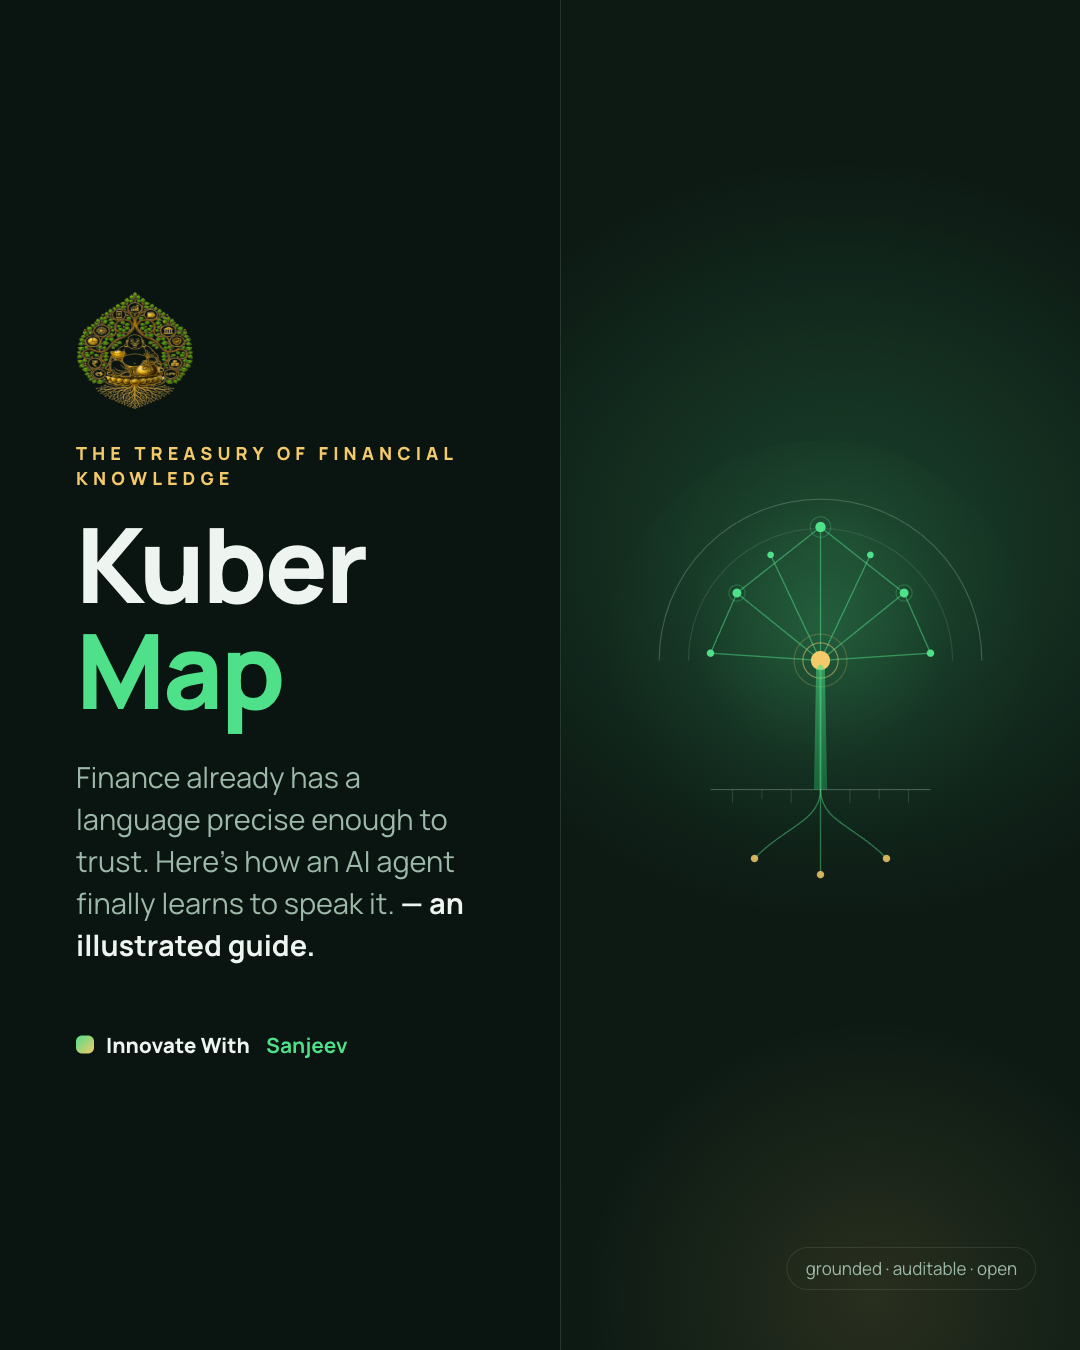
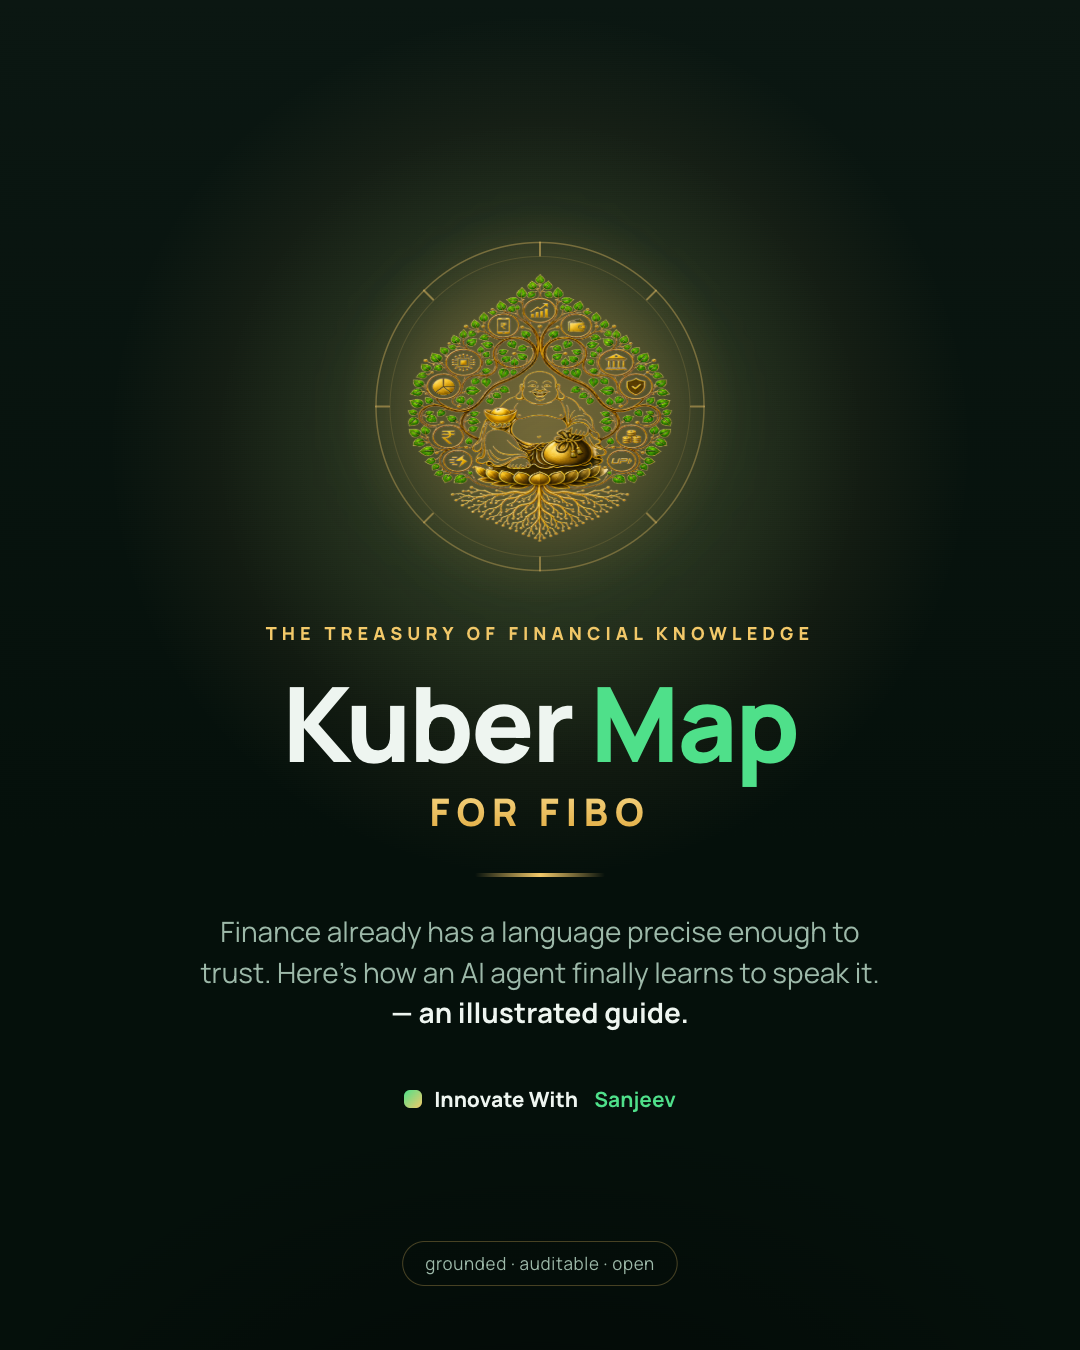
eBook cover: hero the Kuber emblem as a gold-lit medallion on dark (both variants)

diff --git a/marketing/ebook.html b/marketing/ebook.html
@@ -58,20 +58,29 @@
   .split .art svg{ width:340px; height:auto; display:block;}
   .split .art .cap{ position:absolute; left:44px; right:44px; bottom:70px; font-size:17px; color:var(--faint); line-height:1.45; text-align:center;}
 
-  /* ===== COVER ===== */
-  .cover .txt{ justify-content:center;}
-  .cover .emblem{ width:118px; height:118px; margin-bottom:32px;}
-  .cover h1{ font-size:104px; margin-top:20px;}
-  .cover .sub{ font-size:29px; color:var(--muted); margin-top:34px; line-height:1.45; max-width:560px;}
-  .cover .sub b{color:var(--ink);}
-  .cover .by{ margin-top:64px; display:flex; align-items:center; gap:12px; font-size:21px; font-weight:800;}
-  .cover .by .spark{ width:18px; height:18px; border-radius:6px; background:linear-gradient(135deg,var(--green),var(--gold));}
-  .cover .by b{color:var(--green);}
-  .cover .art{ flex-basis:520px; background:
-      radial-gradient(620px 560px at 54% 40%, color-mix(in srgb, var(--green) 20%, transparent), transparent 68%),
-      radial-gradient(480px 460px at 60% 96%, color-mix(in srgb, var(--gold) 12%, transparent), transparent 60%), var(--panel);}
-  .cover .art svg{ width:440px;}
-  .cover .art .tag{ position:absolute; right:44px; bottom:60px; font-size:17px; color:var(--muted); border:1px solid var(--line); border-radius:999px; padding:9px 18px;}
+  /* ===== COVER (always dark, gold-lit hero around the Kuber emblem) ===== */
+  .cover{ background:
+      radial-gradient(720px 720px at 50% 33%, rgba(243,201,105,.20), transparent 60%),
+      radial-gradient(560px 560px at 50% 33%, rgba(79,224,138,.14), transparent 58%),
+      radial-gradient(1100px 820px at 50% 116%, rgba(0,0,0,.55), transparent 56%),
+      linear-gradient(180deg, #0b1712, #05100b 62%);}
+  .cover .pad{ align-items:center; text-align:center; justify-content:center; padding:110px 96px;}
+  .cover .emblemwrap{ position:relative; width:340px; height:340px; margin-bottom:44px; display:flex; align-items:center; justify-content:center;}
+  .cover .halo{ position:absolute; inset:-30px; border-radius:50%; background:radial-gradient(circle, rgba(243,201,105,.30), rgba(243,201,105,.06) 52%, transparent 70%);}
+  .cover .rings{ position:absolute; inset:0; width:100%; height:100%;}
+  .cover .emblem{ position:relative; z-index:2; width:270px; height:270px; filter:drop-shadow(0 0 44px rgba(243,201,105,.5)) drop-shadow(0 16px 40px rgba(0,0,0,.6));}
+  .cover .kicker{ color:#f3c969;}
+  .cover h1{ font-size:104px; margin-top:24px; color:#eef5f0;}
+  .cover h1 .g{ color:#4fe08a;}
+  .cover .forfibo{ font-size:38px; font-weight:800; letter-spacing:.18em; text-transform:uppercase; margin-top:10px;
+    background:linear-gradient(180deg,#f7d98a,#e0a93c); -webkit-background-clip:text; background-clip:text; -webkit-text-fill-color:transparent;}
+  .cover .rule{ width:130px; height:4px; border-radius:3px; margin:36px 0 0; background:linear-gradient(90deg, transparent, #f3c969, transparent);}
+  .cover .sub{ font-size:28px; color:#9db9a9; margin-top:34px; line-height:1.45; max-width:680px;}
+  .cover .sub b{color:#eef5f0;}
+  .cover .by{ margin-top:52px; display:flex; align-items:center; gap:12px; font-size:21px; font-weight:800; color:#eef5f0;}
+  .cover .by .spark{ width:18px; height:18px; border-radius:6px; background:linear-gradient(135deg,#4fe08a,#f3c969);}
+  .cover .by b{color:#4fe08a;}
+  .cover .tag{ position:absolute; left:50%; transform:translateX(-50%); bottom:64px; font-size:17px; color:#9db9a9; border:1px solid rgba(243,201,105,.28); border-radius:999px; padding:10px 22px; letter-spacing:.04em;}
 
   /* ===== QUOTE ===== */
   .quote .pad{ justify-content:center; padding:120px 110px;}
@@ -209,32 +218,27 @@
 <div class="book">
 
   <!-- 1 · COVER -->
-  <section class="page split cover">
-    <div class="txt">
-      <img class="emblem" src="../images/kuber-map.png" alt="" />
-      <div class="kicker">The treasury of financial knowledge</div>
-      <h1>Kuber <span class="g">Map</span></h1>
-      <div class="sub">Finance already has a language precise enough to trust. Here's how an AI agent finally learns to speak it. <b>— an illustrated guide.</b></div>
-      <div class="by"><span class="spark"></span>Innovate With&nbsp;<b>Sanjeev</b></div>
-    </div>
-    <div class="art">
-      <svg viewBox="0 0 600 640" fill="none" aria-hidden="true">
-        <defs><radialGradient id="hg" cx="50%" cy="44%" r="52%"><stop offset="0%" stop-color="var(--green)" stop-opacity=".22"/><stop offset="60%" stop-color="var(--green)" stop-opacity=".04"/><stop offset="100%" stop-color="var(--green)" stop-opacity="0"/></radialGradient><linearGradient id="ht" x1="0" y1="0" x2="0" y2="1"><stop offset="0%" stop-color="var(--green)"/><stop offset="100%" stop-color="var(--green-deep)"/></linearGradient></defs>
-        <circle cx="300" cy="290" r="290" fill="url(#hg)"/>
-        <g stroke="var(--faint)" fill="none" stroke-opacity=".5"><path d="M80 300 A220 220 0 0 1 520 300" stroke-width="1.5"/><path d="M120 300 A180 180 0 0 1 480 300" stroke-width="1.5" stroke-opacity=".28"/></g>
-        <g stroke="var(--green)" stroke-opacity=".5" stroke-width="1.8" stroke-linecap="round"><path d="M300 300 L300 118"/><path d="M300 300 L186 208"/><path d="M300 300 L414 208"/><path d="M300 300 L150 290"/><path d="M300 300 L450 290"/><path d="M300 118 L186 208"/><path d="M300 118 L414 208"/><path d="M186 208 L150 290"/><path d="M414 208 L450 290"/><path d="M300 300 L232 156"/><path d="M300 300 L368 156"/></g>
-        <g fill="var(--green)"><circle cx="300" cy="118" r="7"/><circle cx="186" cy="208" r="6"/><circle cx="414" cy="208" r="6"/><circle cx="150" cy="290" r="5"/><circle cx="450" cy="290" r="5"/><circle cx="232" cy="156" r="4.5"/><circle cx="368" cy="156" r="4.5"/></g>
-        <g fill="none" stroke="var(--green)" stroke-opacity=".3" stroke-width="1.3"><circle cx="300" cy="118" r="14"/><circle cx="186" cy="208" r="11"/><circle cx="414" cy="208" r="11"/></g>
-        <circle cx="300" cy="300" r="13" fill="var(--gold)"/><circle cx="300" cy="300" r="24" fill="none" stroke="var(--gold)" stroke-opacity=".5" stroke-width="1.6"/><circle cx="300" cy="300" r="36" fill="none" stroke="var(--gold)" stroke-opacity=".22" stroke-width="1.6"/>
-        <path d="M291 476 L294 312 Q300 300 306 312 L309 476 Z" fill="url(#ht)" fill-opacity=".5"/><path d="M300 306 L300 476" stroke="var(--green)" stroke-width="2.4" stroke-opacity=".55"/>
-        <g stroke="var(--green)" stroke-opacity=".45" stroke-width="1.8" fill="none" stroke-linecap="round"><path d="M300 476 C300 520 248 528 210 570"/><path d="M300 476 C300 520 352 528 390 570"/><path d="M300 476 C300 528 300 548 300 592"/></g>
-        <g fill="var(--gold)" fill-opacity=".85"><circle cx="210" cy="570" r="5"/><circle cx="390" cy="570" r="5"/><circle cx="300" cy="592" r="5"/></g>
-        <path d="M150 476 L450 476" stroke="var(--faint)" stroke-opacity=".55" stroke-width="1.5"/>
-        <g stroke="var(--faint)" stroke-opacity=".3" stroke-width="1.5"><path d="M180 476 V494"/><path d="M220 476 V489"/><path d="M260 476 V494"/><path d="M340 476 V494"/><path d="M380 476 V489"/><path d="M420 476 V494"/></g>
+  <section class="page cover"><div class="pad">
+    <div class="emblemwrap">
+      <div class="halo"></div>
+      <svg class="rings" viewBox="0 0 340 340" fill="none" aria-hidden="true">
+        <circle cx="170" cy="170" r="164" stroke="#f3c969" stroke-opacity=".38" stroke-width="1.5"/>
+        <circle cx="170" cy="170" r="150" stroke="#f3c969" stroke-opacity=".16" stroke-width="1"/>
+        <g stroke="#f3c969" stroke-opacity=".5" stroke-width="2" stroke-linecap="round">
+          <path d="M170 6 v13"/><path d="M170 321 v13"/><path d="M6 170 h13"/><path d="M321 170 h13"/>
+          <path d="M54 54 l9 9"/><path d="M277 277 l9 9"/><path d="M286 54 l-9 9"/><path d="M63 277 l-9 9"/>
+        </g>
       </svg>
-      <div class="tag">grounded · auditable · open</div>
+      <img class="emblem" src="../images/kuber-map.png" alt="Kuber Map emblem" />
     </div>
-  </section>
+    <div class="kicker">The treasury of financial knowledge</div>
+    <h1>Kuber <span class="g">Map</span></h1>
+    <div class="forfibo">for FIBO</div>
+    <div class="rule"></div>
+    <div class="sub">Finance already has a language precise enough to trust. Here's how an AI agent finally learns to speak it. <b>— an illustrated guide.</b></div>
+    <div class="by"><span class="spark"></span>Innovate With&nbsp;<b>Sanjeev</b></div>
+    <div class="tag">grounded · auditable · open</div>
+  </div></section>
 
   <!-- 2 · QUOTE Wittgenstein -->
   <section class="page quote"><div class="pad">